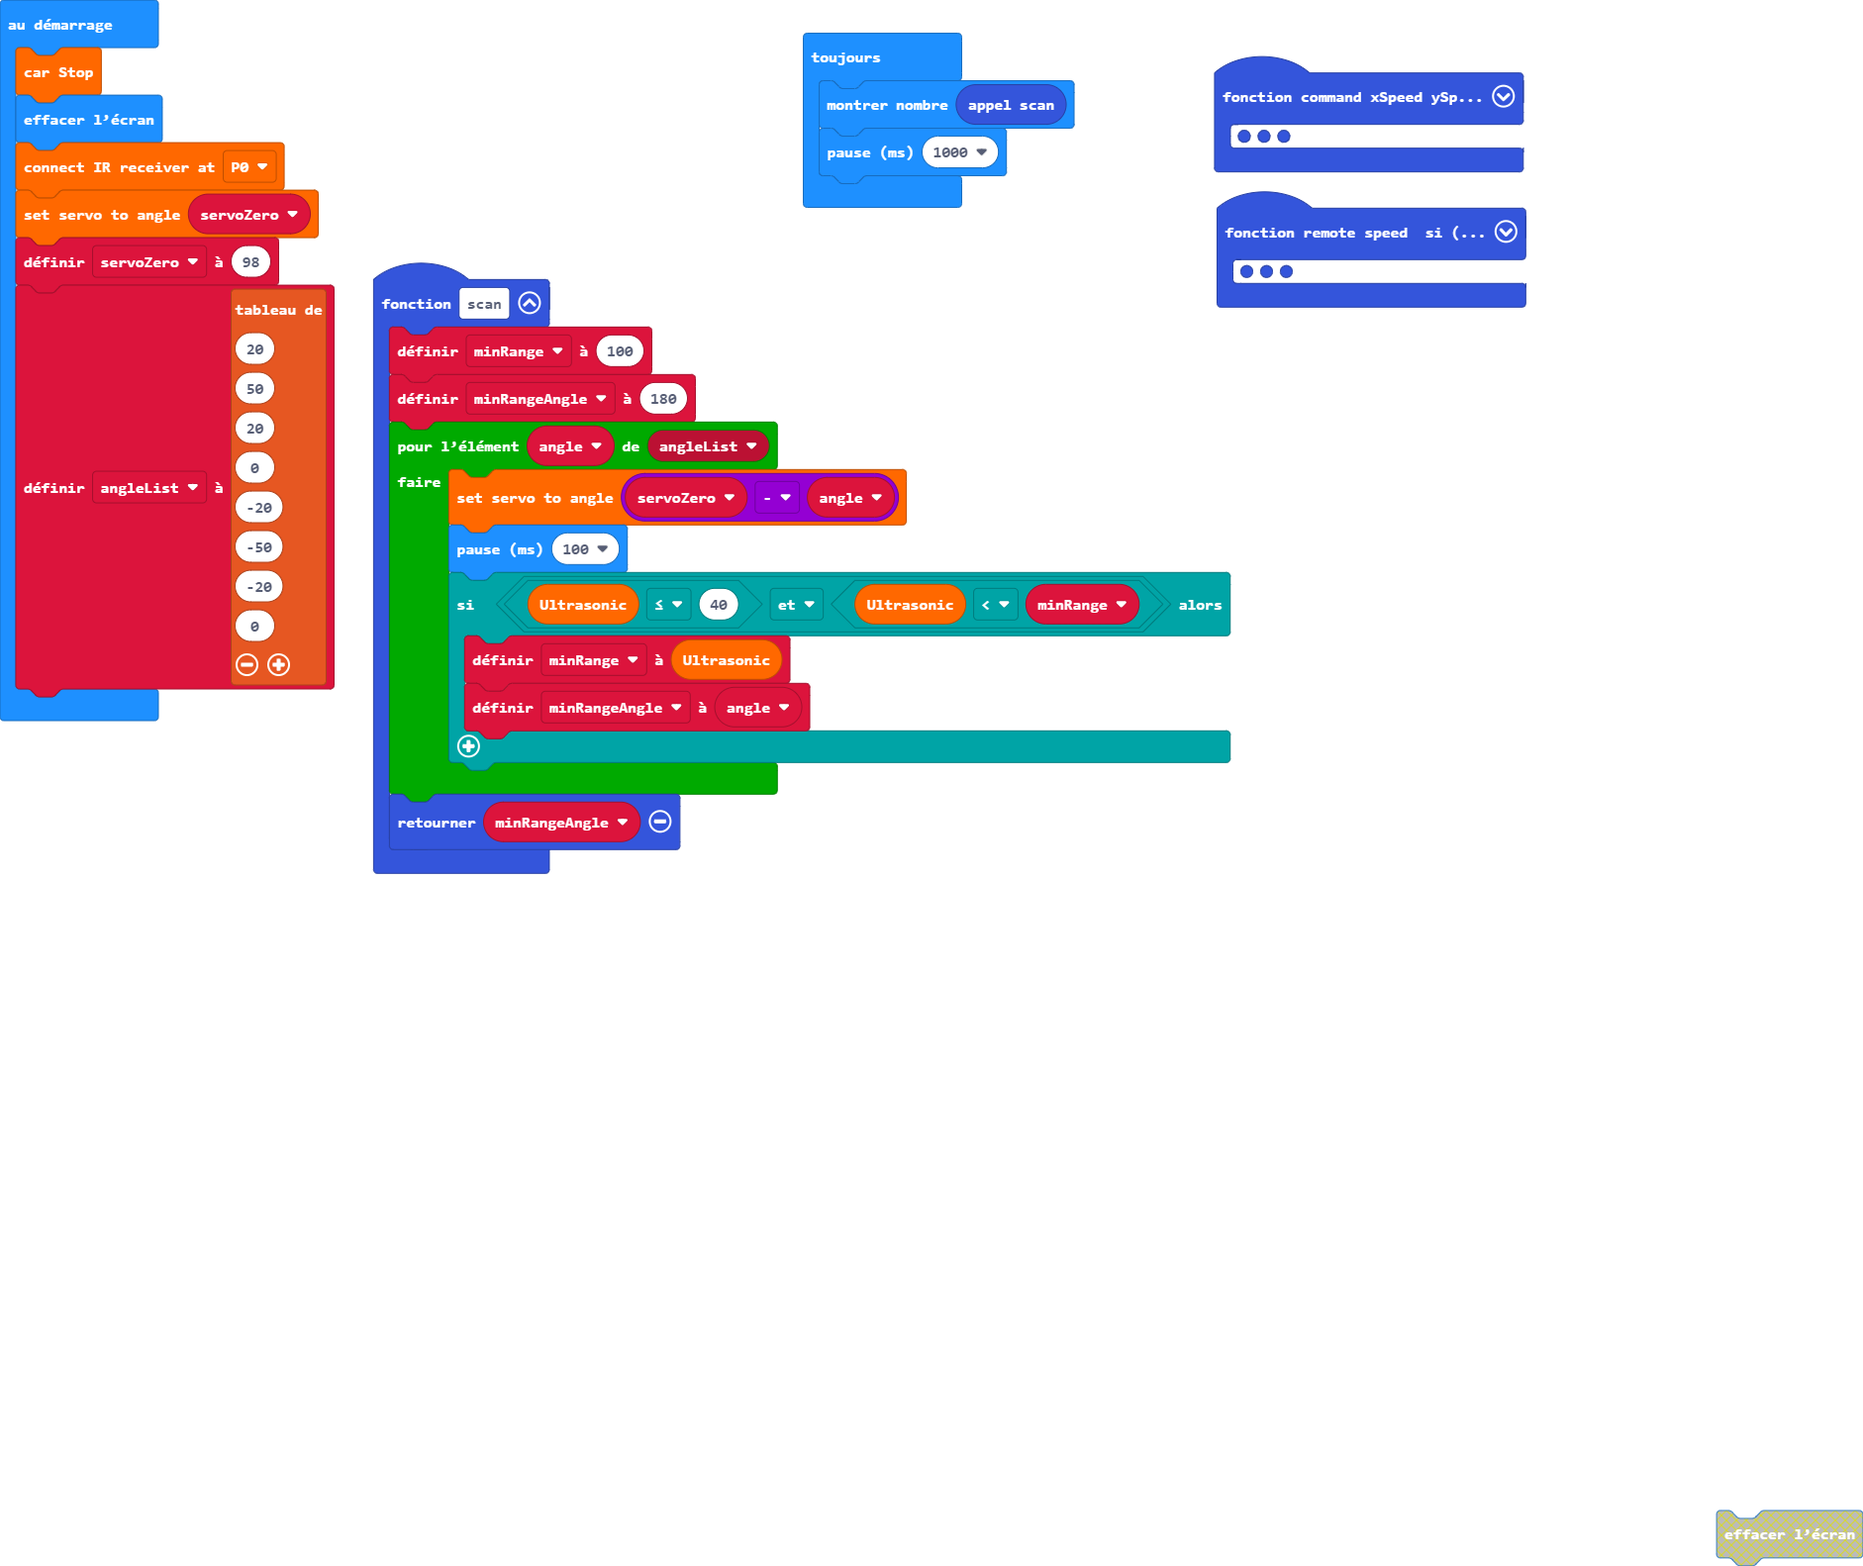
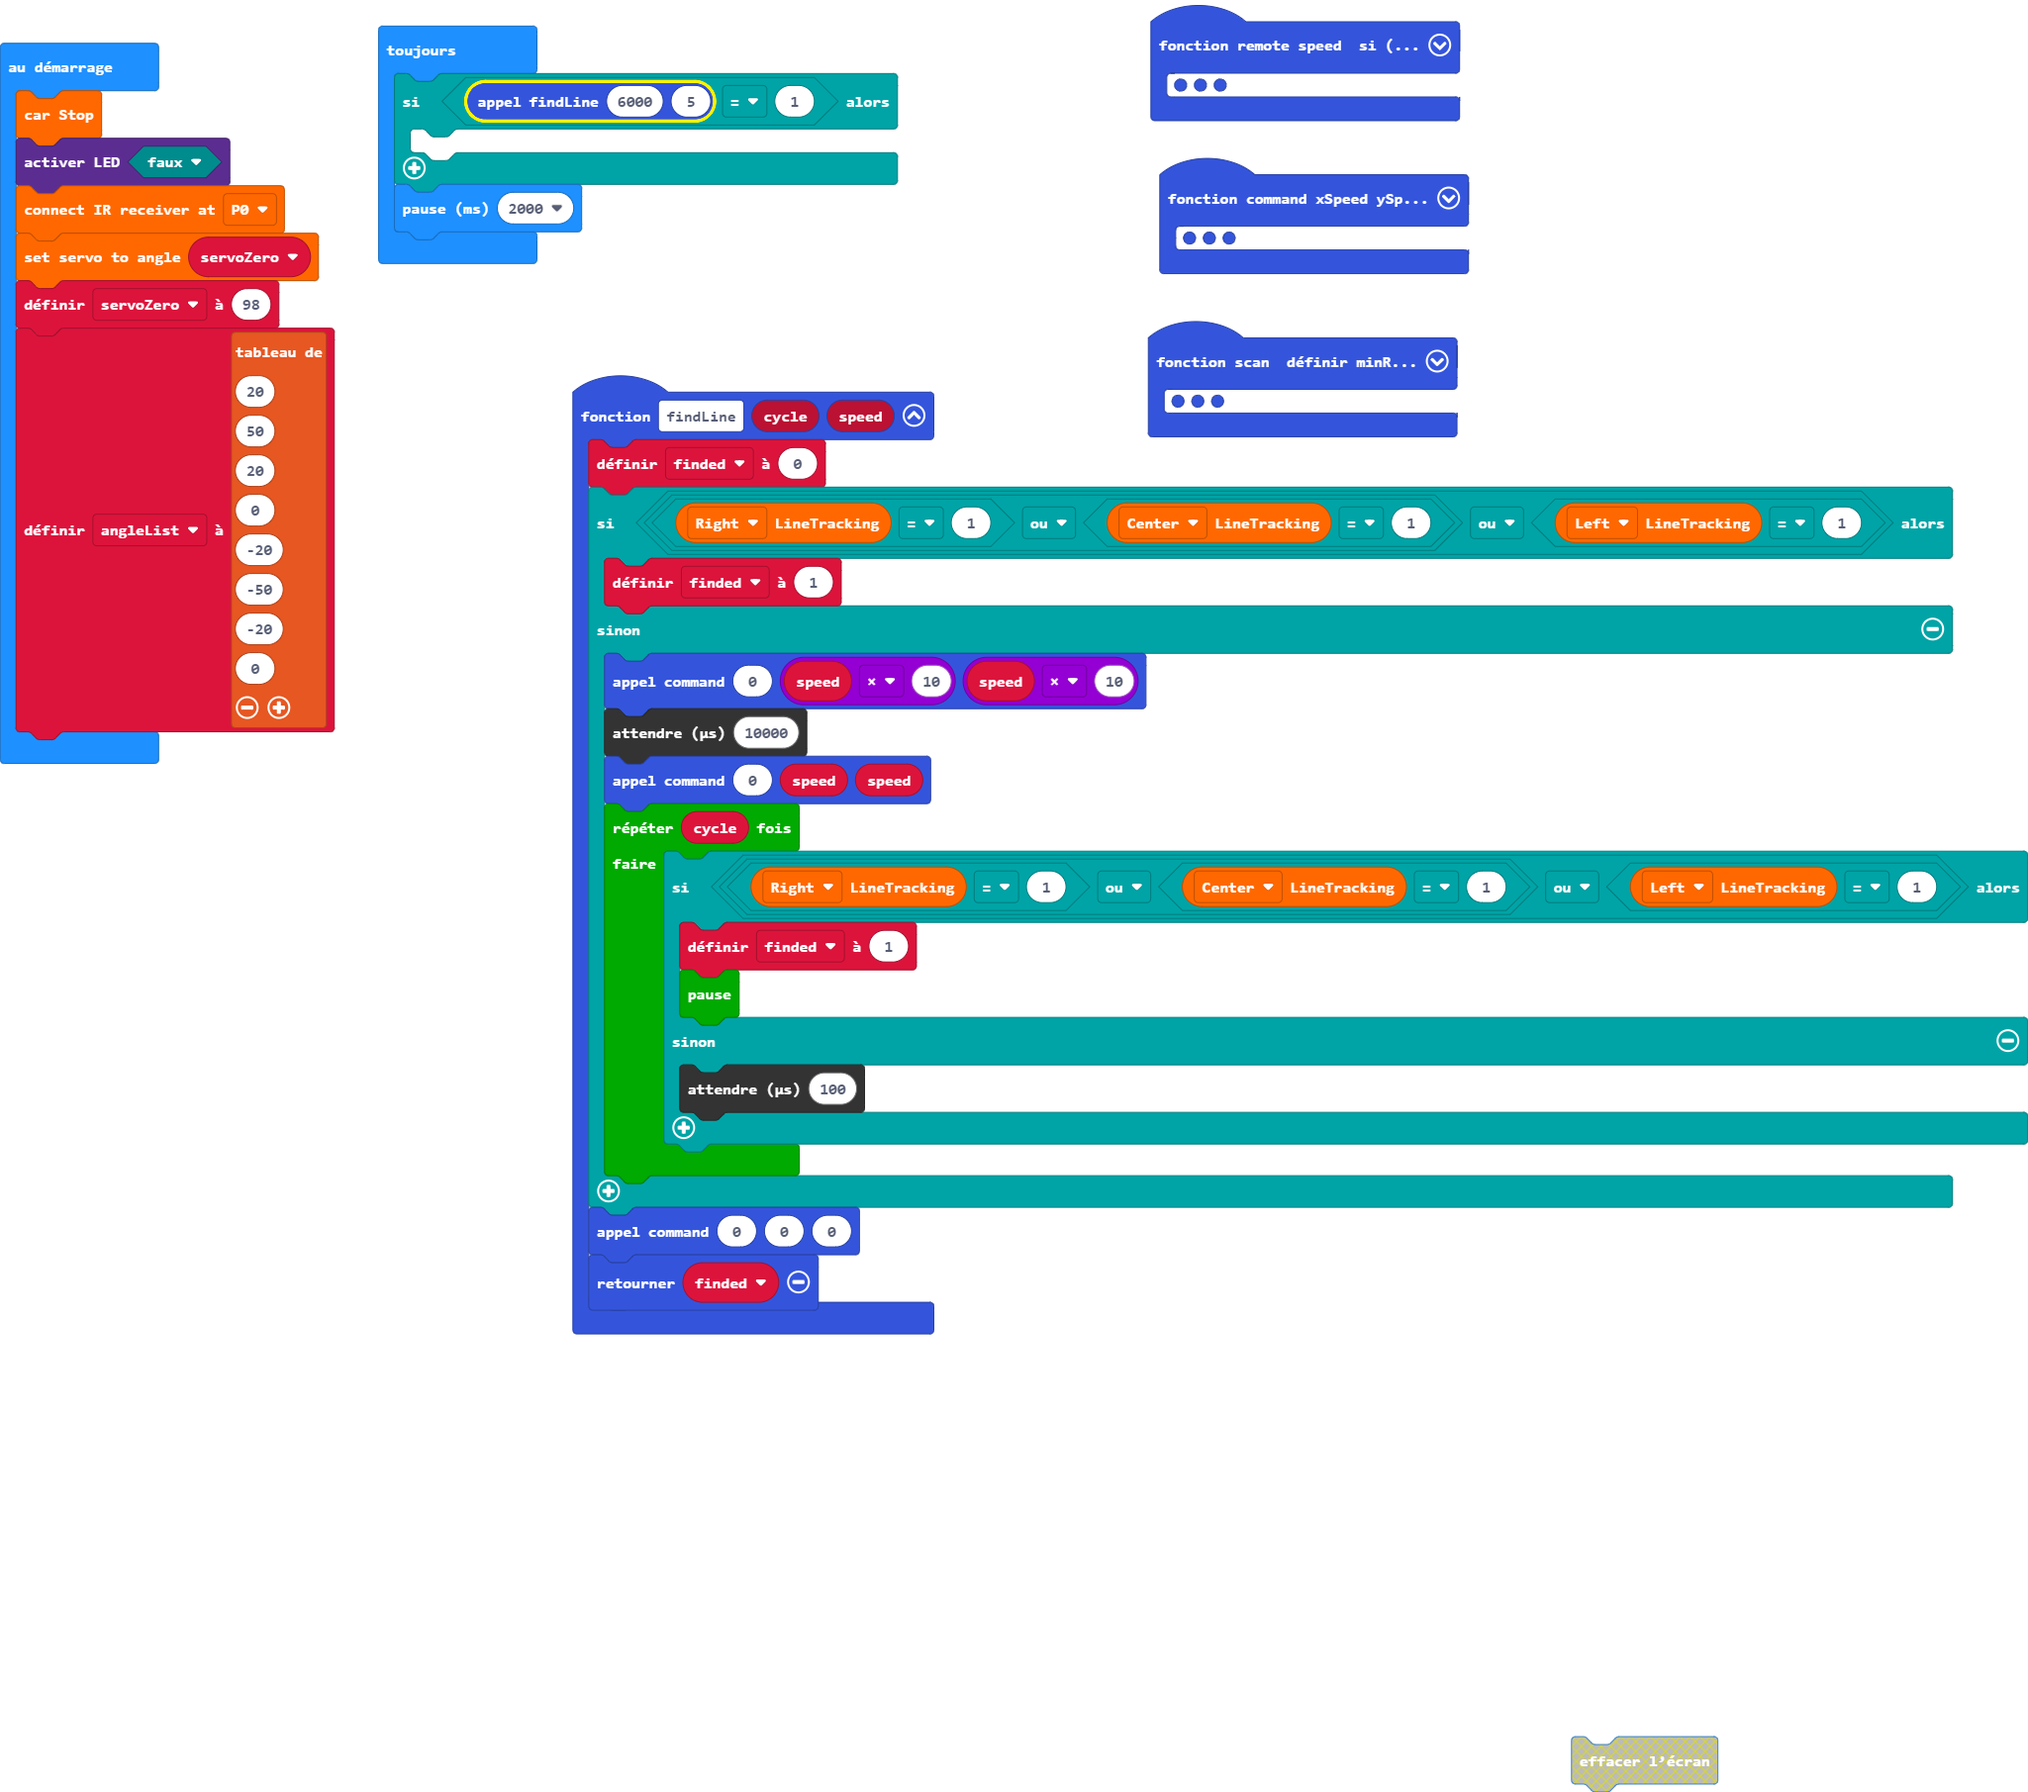
Recherche de ligne

diff --git a/main.ts b/main.ts
@@ -1,3 +1,23 @@
+function findLine (cycle: number, speed: number) {
+    finded = 0
+    if (mecanumRobotV2.LineTracking(LT.Right) == 1 || mecanumRobotV2.LineTracking(LT.Center) == 1 || mecanumRobotV2.LineTracking(LT.Left) == 1) {
+        finded = 1
+    } else {
+        command(0, speed * 10, speed * 10)
+        control.waitMicros(10000)
+        command(0, speed, speed)
+        for (let index = 0; index < cycle; index++) {
+            if (mecanumRobotV2.LineTracking(LT.Right) == 1 || mecanumRobotV2.LineTracking(LT.Center) == 1 || mecanumRobotV2.LineTracking(LT.Left) == 1) {
+                finded = 1
+                break;
+            } else {
+                control.waitMicros(100)
+            }
+        }
+    }
+    command(0, 0, 0)
+    return finded
+}
 function remote (speed: number) {
     if (irRemote.returnIrButton() == 0) {
         mecanumRobotV2.state()
@@ -8,6 +28,9 @@ function remote (speed: number) {
             # . . # #
             . # # # .
             `)
+    }
+    if (irRemote.returnIrButton() == irRemote.irButton(IrButton.Ok)) {
+        basic.showIcon(IconNames.Giraffe)
     }
     if (irRemote.returnIrButton() == irRemote.irButton(IrButton.Number_1)) {
         basic.showArrow(ArrowNames.SouthEast)
@@ -107,10 +130,11 @@ let lowerLeftSpeed = 0
 let upperLeftSpeed = 0
 let minRangeAngle = 0
 let minRange = 0
+let finded = 0
 let angleList: number[] = []
 let servoZero = 0
 mecanumRobotV2.state()
-basic.clearScreen()
+led.enable(false)
 irRemote.connectInfrared(DigitalPin.P0)
 mecanumRobotV2.setServo(servoZero)
 servoZero = 98
@@ -125,6 +149,8 @@ angleList = [
 0
 ]
 basic.forever(function () {
-    basic.showNumber(scan())
-    basic.pause(1000)
+    if (findLine(6000, 5) == 1) {
+    	
+    }
+    basic.pause(2000)
 })
